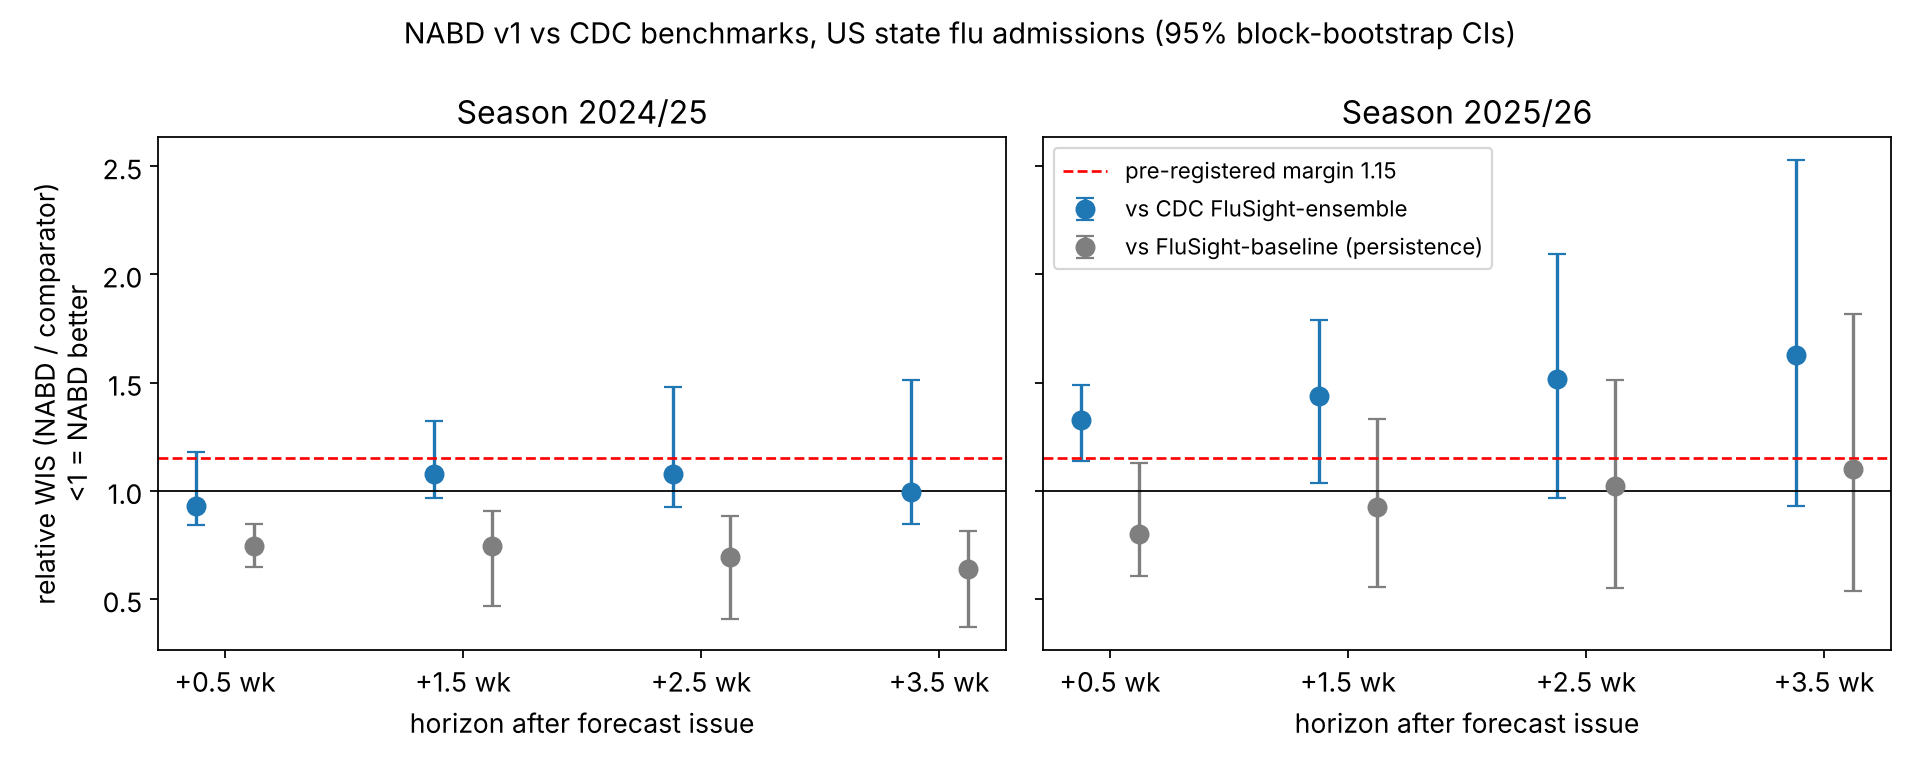
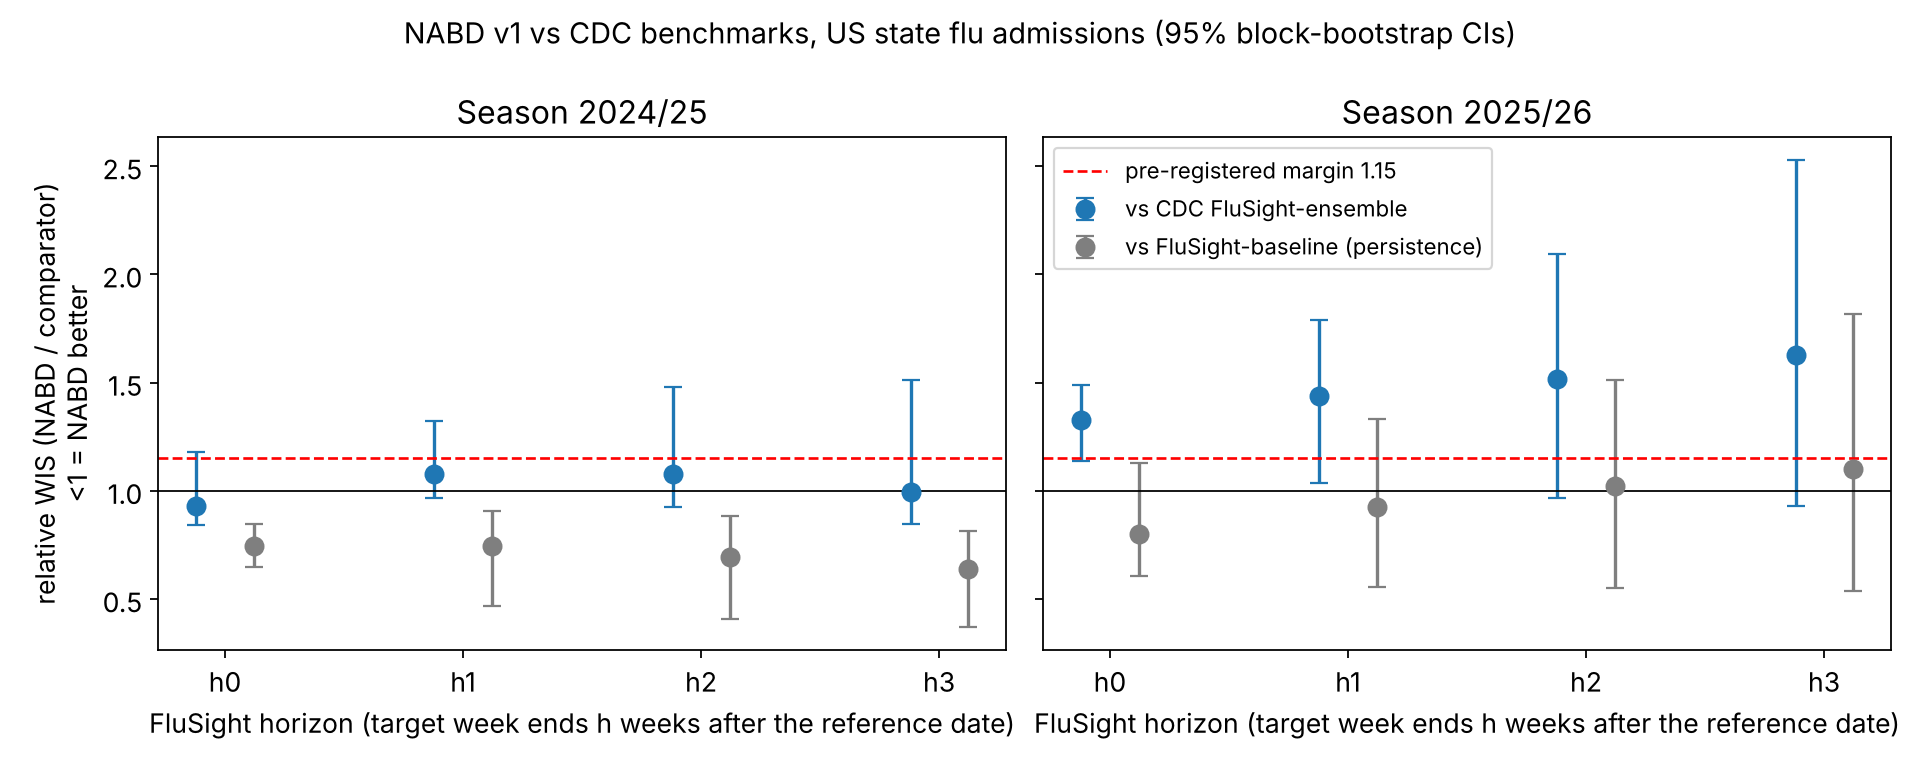
Horizon labels in evaluation outputs: UAE targets L+1..L+4, US FluSight horizons h0-h3 (wording/labels only; all numbers unchanged, summary.json values identical)

diff --git a/uae/backtest.py b/uae/backtest.py
@@ -30,8 +30,10 @@ from uae.scoring import wis, covered
 ROOT = Path(__file__).resolve().parents[1]
 OUT = ROOT / "results" / "uae"
 TEST_SEASONS = [2022, 2023, 2024, 2025]
-HORIZON_LABEL = {-1: "nowcast (target week already ended at issue)", 0: "+0.5 wk after issue",
-                 1: "+1.5 wk after issue", 2: "+2.5 wk after issue"}
+# Horizon h = target week L+2+h, where L is the last published week (h = -1 is L+1, the nowcast). In the live
+# product these targets are labelled by week-ending date and "nowcast / +1 / +2 / +3 wk after issue"
+# (7-day publication lag); skill here is measured at a conservative 11-day lag (docs/DEVIATIONS.md C8).
+HORIZON_LABEL = {-1: "L+1 (nowcast)", 0: "L+2", 1: "L+3", 2: "L+4"}
 
 
 def run(mode="cached", write_forecasts=True):
@@ -209,7 +211,7 @@ def make_figure(s, scores):
         ax.plot(s.week_end, pct, color="black", lw=1.2, label="observed (WHO FluNet, UAE sentinel)")
         sc = scores[(scores.series == key) & (scores.model == "NABD-UAE-v1") & (scores.horizon == 0)]
         ax.plot(pd.to_datetime(sc.target_end_date), sc["median"], color="#1f77b4", lw=1, alpha=0.8,
-                label="NABD-UAE-v1 median, horizon 0 (+0.5 wk after issue), LOSO")
+                label="NABD-UAE-v1 median, target L+2 (1 wk after issue in the live product), LOSO")
         ax.set_ylabel(f"{key.upper()} positivity %")
         ax.legend(loc="upper left", fontsize=8)
         ax.grid(alpha=0.3)
@@ -222,7 +224,9 @@ def write_summary_md(summary, by_model, by_season, pk):
     L = ["# UAE track: leave-one-season-out results (PRELIMINARY)", "",
          f"Data: WHO FluNet UAE sentinel, latest week **{summary['latest_sentinel_week']}** (`data/raw/flunet_are.csv`). "
          "Design: leave-one-season-out over **n = 4 test seasons** (2022/23–2025/26), 1-week simulated publication lag, "
-         "horizons relative to reference date: -1 = nowcast, 0 = +0.5 wk, 1 = +1.5 wk, 2 = +2.5 wk after issue.", "",
+         "horizons h = -1, 0, 1, 2 are the 1st–4th weeks after the last published week L (L+1 = nowcast … L+4); in the live "
+         "product they are labelled by week-ending date and 'nowcast / +1 / +2 / +3 wk after issue'; skill is measured at a "
+         "conservative 11-day lag.", "",
          "**Honest caveats:** n = 4 seasons; 2022/23 is low-volume; LOSO trains on later seasons when testing earlier ones; "
          "bootstrap CIs resample reference dates and do not capture between-season uncertainty; FluNet revisions are not reproduced.", "",
          "## Relative WIS (NABD-UAE-v1 / baseline; < 1 means NABD better), 95% block-bootstrap CI", "",
@@ -243,7 +247,8 @@ def write_summary_md(summary, by_model, by_season, pk):
           "## Integrity note", "",
           "These v1 numbers are **retrospective, design-stage, not pre-registered**: NABD-UAE-v1 was designed with all "
           "four seasons visible and re-run after a leak fix (463ab09; docs/DEVIATIONS.md U1). All tables use cells common "
-          "to all three models (U4). The blind tests of the UAE method are the GCC out-of-sample test "
+          "to all three models (U4). The out-of-sample tests of the UAE method are the GCC test (plan locked before download; "
+          "self-attested until anchored) "
           "(results/gcc/SUMMARY.md) and the prospective ledger. v2 results: results/uae/SUMMARY-v2.md.", "",
           "`tests/test_adapters.py::test_forecast_unchanged_when_future_data_altered` caught a leave-one-season-out "
           "boundary leak in the first build (lag features of a training season's first week reached into the held-out "

diff --git a/eval/round2.py b/eval/round2.py
@@ -415,9 +415,9 @@ def figures(models, lt, pdc, rev):
             ax.errorbar(x, est, yerr=[est - los, his - est], fmt="o", capsize=4, ms=8, color=col[Bm], label=lab)
         ax.axhline(1.0, color="black", lw=0.8)
         ax.axhline(MARGIN, color="red", lw=1.2, ls="--", label="pre-registered margin 1.15")
-        ax.set_xticks(range(4), ["+0.5 wk", "+1.5 wk", "+2.5 wk", "+3.5 wk"])
+        ax.set_xticks(range(4), ["h0", "h1", "h2", "h3"])
         ax.set_title(f"Season {s}")
-        ax.set_xlabel("horizon after forecast issue")
+        ax.set_xlabel("FluSight horizon (target week ends h weeks after the reference date)")
     axes[0].set_ylabel("relative WIS (NABD / comparator)\n<1 = NABD better")
     axes[1].legend(fontsize=10, loc="upper left")
     fig.suptitle("NABD v1 vs CDC benchmarks, US state flu admissions (95% block-bootstrap CIs)", fontsize=13)
@@ -483,7 +483,7 @@ def figures(models, lt, pdc, rev):
     ax.set_xlabel("cost of acting / loss if unprepared (C/L)")
     ax.set_ylabel("relative economic value (1 = perfect, 0 = no better than base rate)")
     ax.set_ylim(-0.5, 1)
-    ax.set_title(f"Decision value: surge ≥3/100k at +2.5 wk (base rate {r.base_rate.iloc[0]:.0%}); dotted = best trigger")
+    ax.set_title(f"Decision value: surge ≥3/100k at FluSight horizon 2 (base rate {r.base_rate.iloc[0]:.0%}); dotted = best trigger")
     ax.legend(fontsize=10)
     fig.tight_layout()
     fig.savefig(FIG / "fig4_rev.png", dpi=160)
@@ -593,7 +593,7 @@ def render_summary_section(d6o, lt, xc, pdc, rev, league_status) -> str:
                  f"{r.share_dispersion*100:.0f}% / over {r.share_over*100:.0f}% / under {r.share_under*100:.0f}%)")
     rv = rev[(rev.subset == "h2 (primary)") & (rev.curve.str.startswith("act"))]
     alphas = sorted(rv.alpha.unique())
-    L += ["", "**Relative economic value** (event ≥3/100k at h2 = +2.5 wk; act when p > C/L; 1 = perfect, 0 = base "
+    L += ["", "**Relative economic value** (event ≥3/100k at FluSight horizon h2, the target week ending 2 weeks after the reference date; act when p > C/L; 1 = perfect, 0 = base "
               "rate; no CIs computed, descriptive):", "",
           "| model | " + " | ".join(f"C/L={a:g}" for a in alphas) + " |", "|---|" + "---|" * len(alphas)]
     for m, g in rv.groupby("model"):

diff --git a/eval/alerts.py b/eval/alerts.py
@@ -121,7 +121,7 @@ def latency() -> pd.DataFrame:
         "rounds": len(f), "stale_rounds": int((f.stale_weeks > 0).sum()),
         "median_input_age_at_issue_days": float(f.input_age_at_issue_days.median()),
         "max_input_age_at_issue_days": int(f.input_age_at_issue_days.max()),
-        "forecast_horizons_after_issue_weeks": "+0.5, +1.5, +2.5, +3.5",
+        "forecast_horizons": "FluSight horizons 0-3 (target weeks ending 0-3 weeks after the Saturday reference date)",
         "note": "US NHSN: week ending Saturday R-7 is available by the Wednesday deadline R-3 (4 days). "
                 "Stale rounds = missing hub vintage; model forecasts from older data (PROTOCOL §2.3)."}])
 

diff --git a/results/uae/SUMMARY.md b/results/uae/SUMMARY.md
@@ -1,6 +1,6 @@
 # UAE track: leave-one-season-out results (PRELIMINARY)
 
-Data: WHO FluNet UAE sentinel, latest week **2026-W44** (`data/raw/flunet_are.csv`). Design: leave-one-season-out over **n = 4 test seasons** (2022/23–2025/26), 1-week simulated publication lag, horizons relative to reference date: -1 = nowcast, 0 = +0.5 wk, 1 = +1.5 wk, 2 = +2.5 wk after issue.
+Data: WHO FluNet UAE sentinel, latest week **2026-W44** (`data/raw/flunet_are.csv`). Design: leave-one-season-out over **n = 4 test seasons** (2022/23–2025/26), 1-week simulated publication lag, horizons h = -1, 0, 1, 2 are the 1st–4th weeks after the last published week L (L+1 = nowcast … L+4); in the live product they are labelled by week-ending date and 'nowcast / +1 / +2 / +3 wk after issue'; skill is measured at a conservative 11-day lag.
 
 **Honest caveats:** n = 4 seasons; 2022/23 is low-volume; LOSO trains on later seasons when testing earlier ones; bootstrap CIs resample reference dates and do not capture between-season uncertainty; FluNet revisions are not reproduced.
 
@@ -54,6 +54,6 @@ Peak-week metric is descriptive only (4 seasons × 4 origins).
 
 ## Integrity note
 
-These v1 numbers are **retrospective, design-stage, not pre-registered**: NABD-UAE-v1 was designed with all four seasons visible and re-run after a leak fix (463ab09; docs/DEVIATIONS.md U1). All tables use cells common to all three models (U4). The blind tests of the UAE method are the GCC out-of-sample test (results/gcc/SUMMARY.md) and the prospective ledger. v2 results: results/uae/SUMMARY-v2.md.
+These v1 numbers are **retrospective, design-stage, not pre-registered**: NABD-UAE-v1 was designed with all four seasons visible and re-run after a leak fix (463ab09; docs/DEVIATIONS.md U1). All tables use cells common to all three models (U4). The out-of-sample tests of the UAE method are the GCC test (plan locked before download; self-attested until anchored) (results/gcc/SUMMARY.md) and the prospective ledger. v2 results: results/uae/SUMMARY-v2.md.
 
 `tests/test_adapters.py::test_forecast_unchanged_when_future_data_altered` caught a leave-one-season-out boundary leak in the first build (lag features of a training season's first week reached into the held-out season); it was fixed by masking cross-season lags in `uae/models.py::_features`, changing relative WIS by <= 0.01. A companion test confirms the detector fires when a leak is injected.

diff --git a/results/SUMMARY.md b/results/SUMMARY.md
@@ -99,7 +99,7 @@ NABD-ensemble combines only NABD's own two members, so it is not flagged as a mu
 - falling: 1.293 over 5872 cells (NABD WIS shares: dispersion 47% / over 3% / under 50%)
 - ALL: 1.223 over 11660 cells (NABD WIS shares: dispersion 36% / over 22% / under 42%)
 
-**Relative economic value** (event ≥3/100k at h2 = +2.5 wk; act when p > C/L; 1 = perfect, 0 = base rate; no CIs computed, descriptive):
+**Relative economic value** (event ≥3/100k at FluSight horizon h2, the target week ending 2 weeks after the reference date; act when p > C/L; 1 = perfect, 0 = base rate; no CIs computed, descriptive):
 
 | model | C/L=0.02 | C/L=0.05 | C/L=0.1 | C/L=0.2 | C/L=0.3 | C/L=0.5 | C/L=0.7 |
 |---|---|---|---|---|---|---|---|
